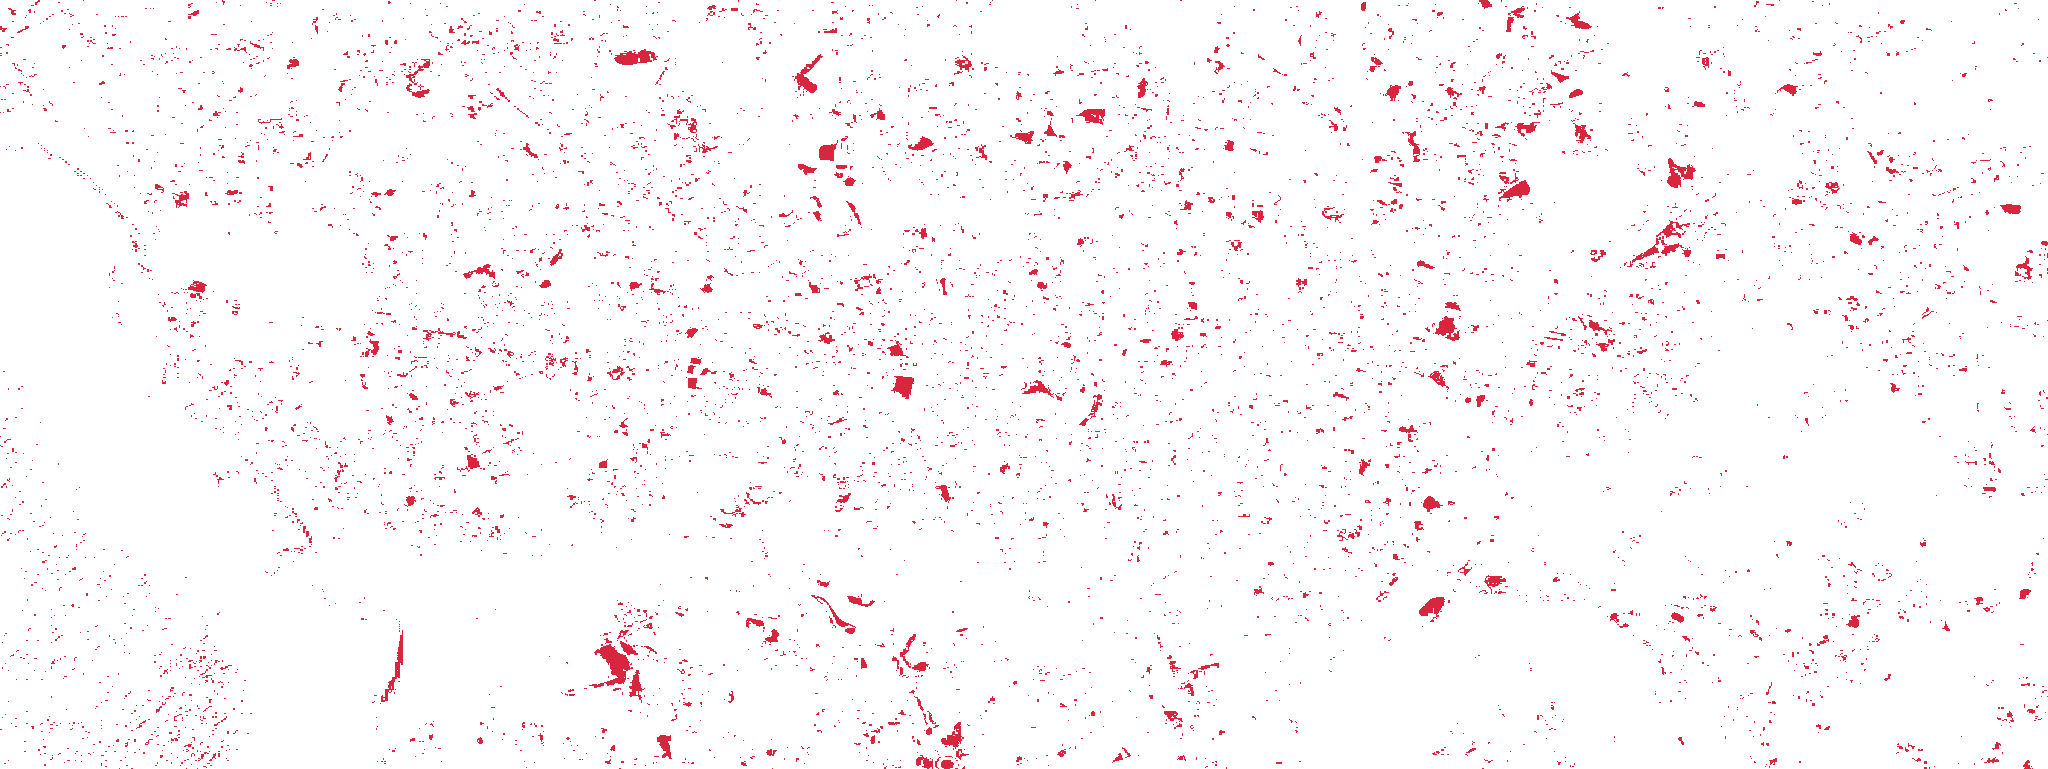
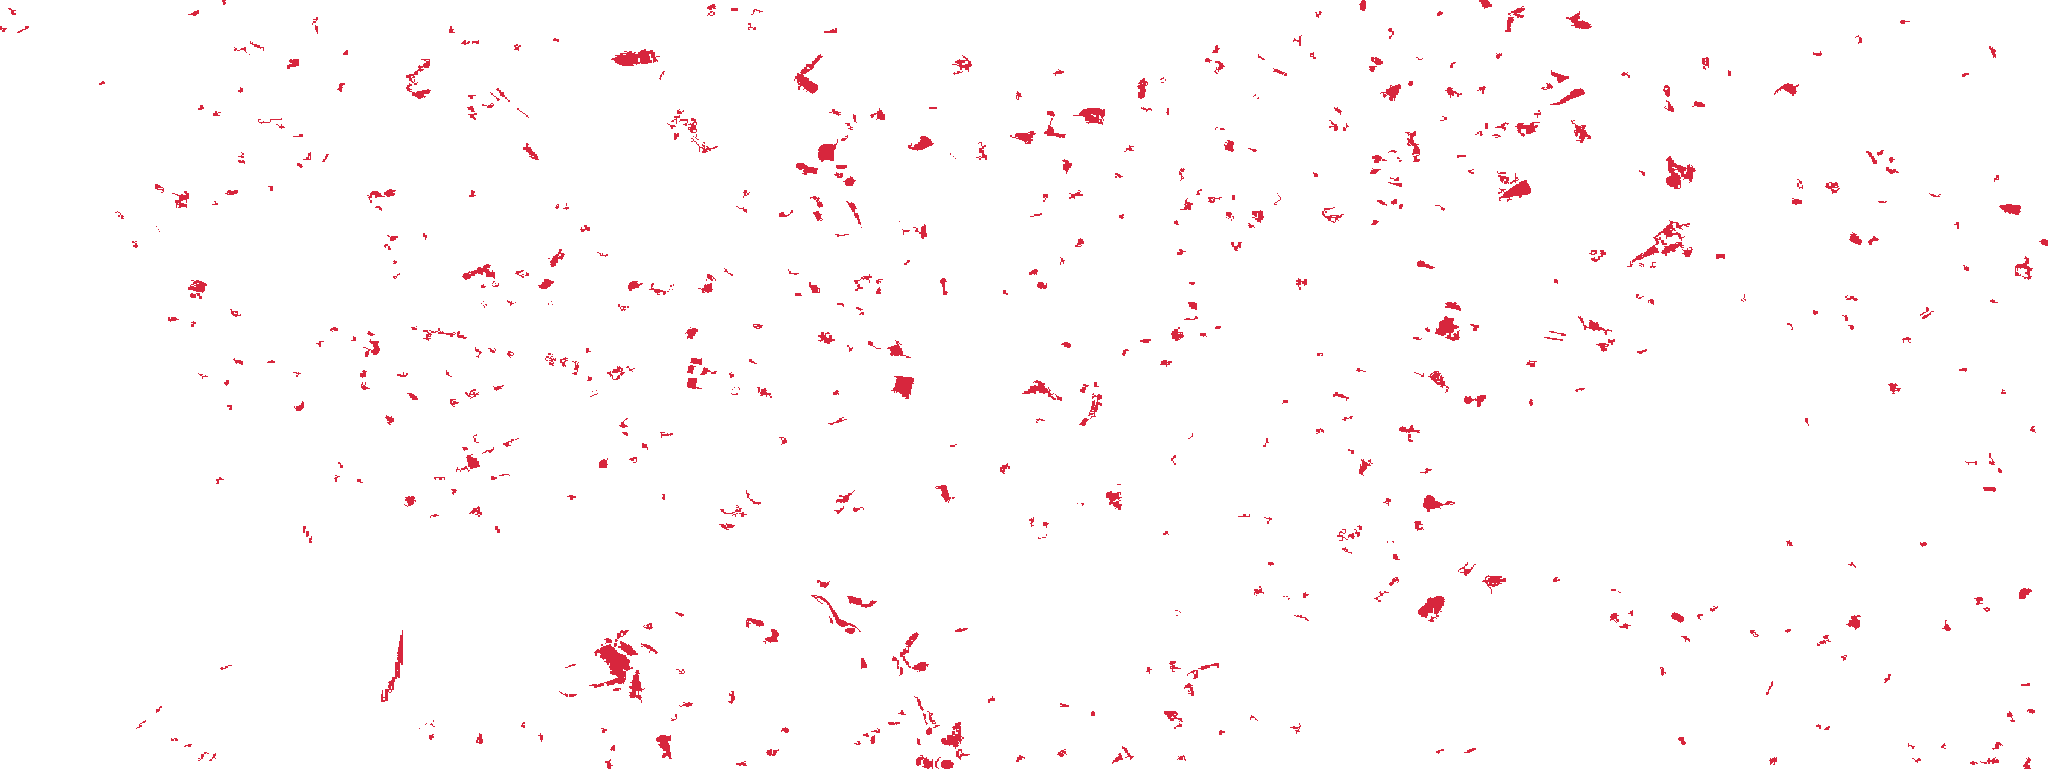
Ajusta filtros: vizinhança 50%, área mínima 15 pixels
Baixa limiar de vizinhança edificada de 60% para 50% para apanhar
interiores em zonas com ruas largas. Adiciona filtro de área mínima
(15 pixels conexos, ~1500m²) para eliminar ruído.

diff --git a/interiores_quarteiroes.py b/interiores_quarteiroes.py
@@ -108,15 +108,23 @@ built_fraction = isBuilt_l.unmask(0).reduceNeighborhood(
     reducer=ee.Reducer.mean(),
     kernel=ee.Kernel.circle(radius=50, units='meters')
 )
-is_interior = built_fraction.gte(0.6)
+is_interior = built_fraction.gte(0.5)
 
 # Subsistente: green/soil in 2024 AND surrounded by buildings
 isGreen_l = isTree_l.Or(isSolo_l)
-subsistente = isGreen_l.And(is_interior).selfMask()
+subsistente_raw = isGreen_l.And(is_interior).selfMask()
 
 # Perdido: was green/soil in 2016, now built in 2024, AND surrounded by buildings
 isGreen_e = isTree_e.Or(isSolo_e)
-perdido = isGreen_e.And(isBuilt_l).And(is_interior).selfMask()
+perdido_raw = isGreen_e.And(isBuilt_l).And(is_interior).selfMask()
+
+# Filtro de area minima: remover manchas com menos de 6 pixels conexos
+MIN_PIXELS = 15
+subsistente_count = subsistente_raw.connectedPixelCount(MIN_PIXELS + 1)
+subsistente = subsistente_raw.updateMask(subsistente_count.gte(MIN_PIXELS))
+
+perdido_count = perdido_raw.connectedPixelCount(MIN_PIXELS + 1)
+perdido = perdido_raw.updateMask(perdido_count.gte(MIN_PIXELS))
 
 print('Classificacao e filtro de vizinhanca concluidos.')
 
